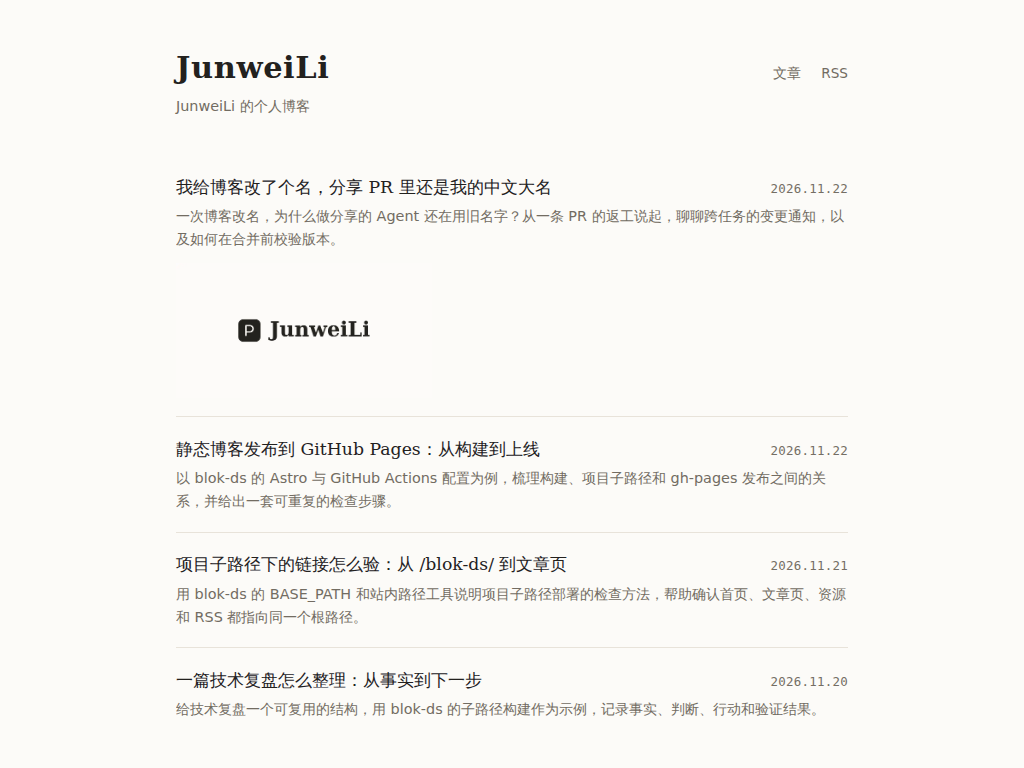
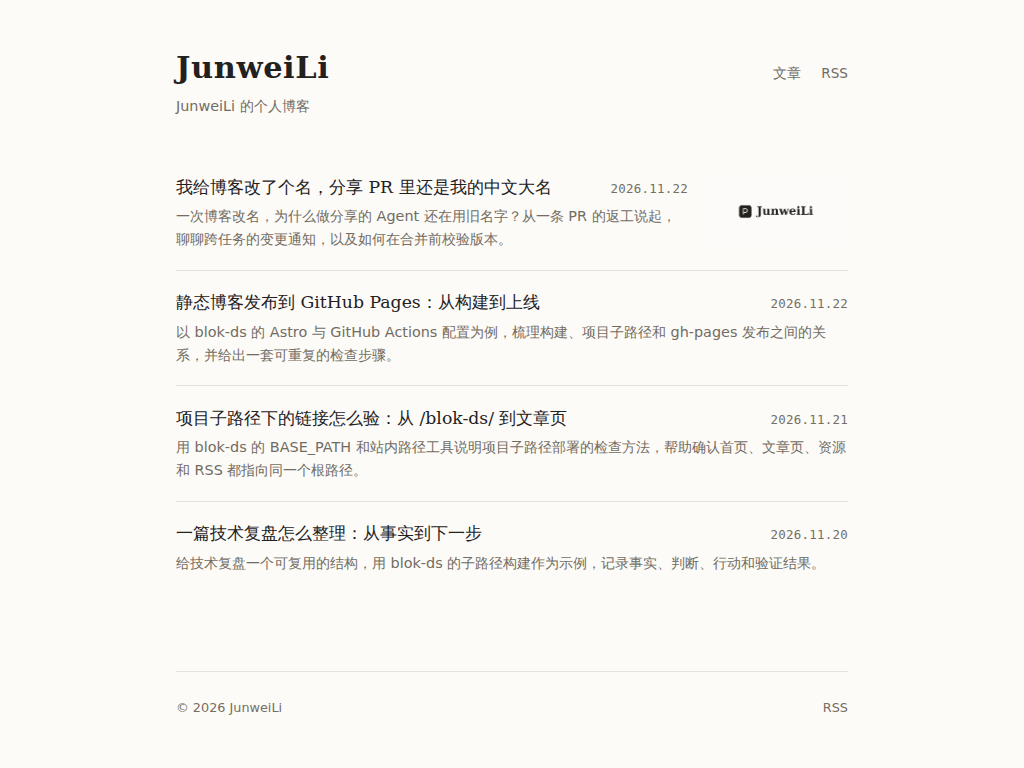
fix: 将文章列表配图移到右侧

diff --git a/src/styles/global.css b/src/styles/global.css
@@ -144,11 +144,25 @@ main {
 }
 
 .post-list li {
+  padding: 1.15rem 0;
+}
+
+.post-list-with-image {
+  display: grid;
+  grid-template-columns: minmax(0, 1fr) auto;
+  align-items: start;
+  column-gap: 1rem;
+}
+
+.post-list-text {
   display: grid;
   grid-template-columns: minmax(0, 1fr) auto;
   align-items: baseline;
   column-gap: 1.5rem;
-  padding: 1.15rem 0;
+}
+
+.post-list-with-image .post-list-text {
+  overflow-wrap: anywhere;
 }
 
 .post-list li:first-child {
@@ -192,13 +206,10 @@ main {
 }
 
 .post-list-image {
-  grid-column: 1 / -1;
-  justify-self: start;
   width: auto;
-  max-width: min(100%, 16rem);
+  max-width: min(9rem, 25vw);
   height: auto;
-  max-height: 10rem;
-  margin-top: 0.75rem;
+  max-height: 6rem;
 }
 
 .empty {
@@ -545,8 +556,12 @@ main {
     margin-top: 0;
   }
 
-  .post-list li {
+  .post-list-text {
     column-gap: 1rem;
+  }
+
+  .post-list-with-image .post-list-text {
+    grid-template-columns: minmax(0, 1fr);
   }
 
   .post-list a {

diff --git a/README.md b/README.md
@@ -66,7 +66,7 @@ listImage:
   alt: 构建流程示意图
 ```
 
-有信息的图片用 `alt` 描述要传达的内容，纯装饰图可填写 `alt: ""`。配图在首页对应条目的文字下方等比显示。
+有信息的图片用 `alt` 描述要传达的内容，纯装饰图可填写 `alt: ""`。配图在首页对应条目的右侧等比显示。
 
 ## 部署
 
